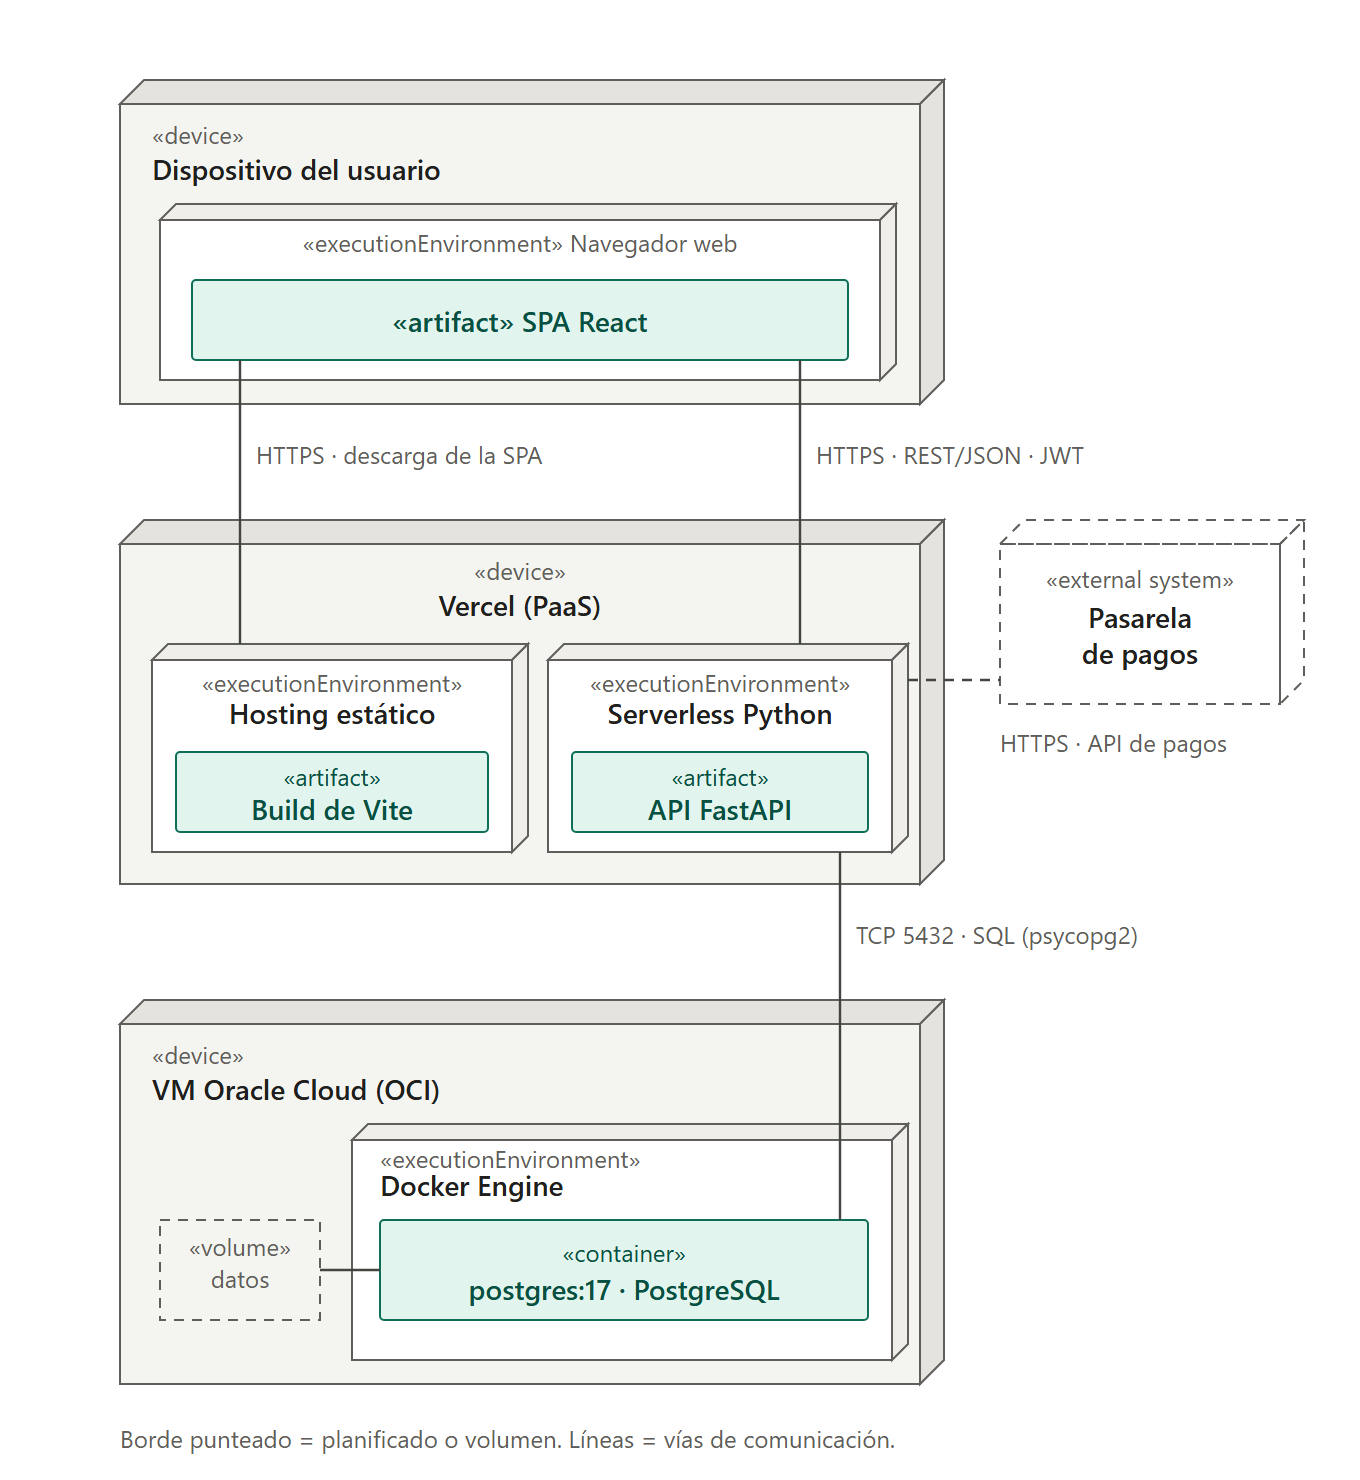
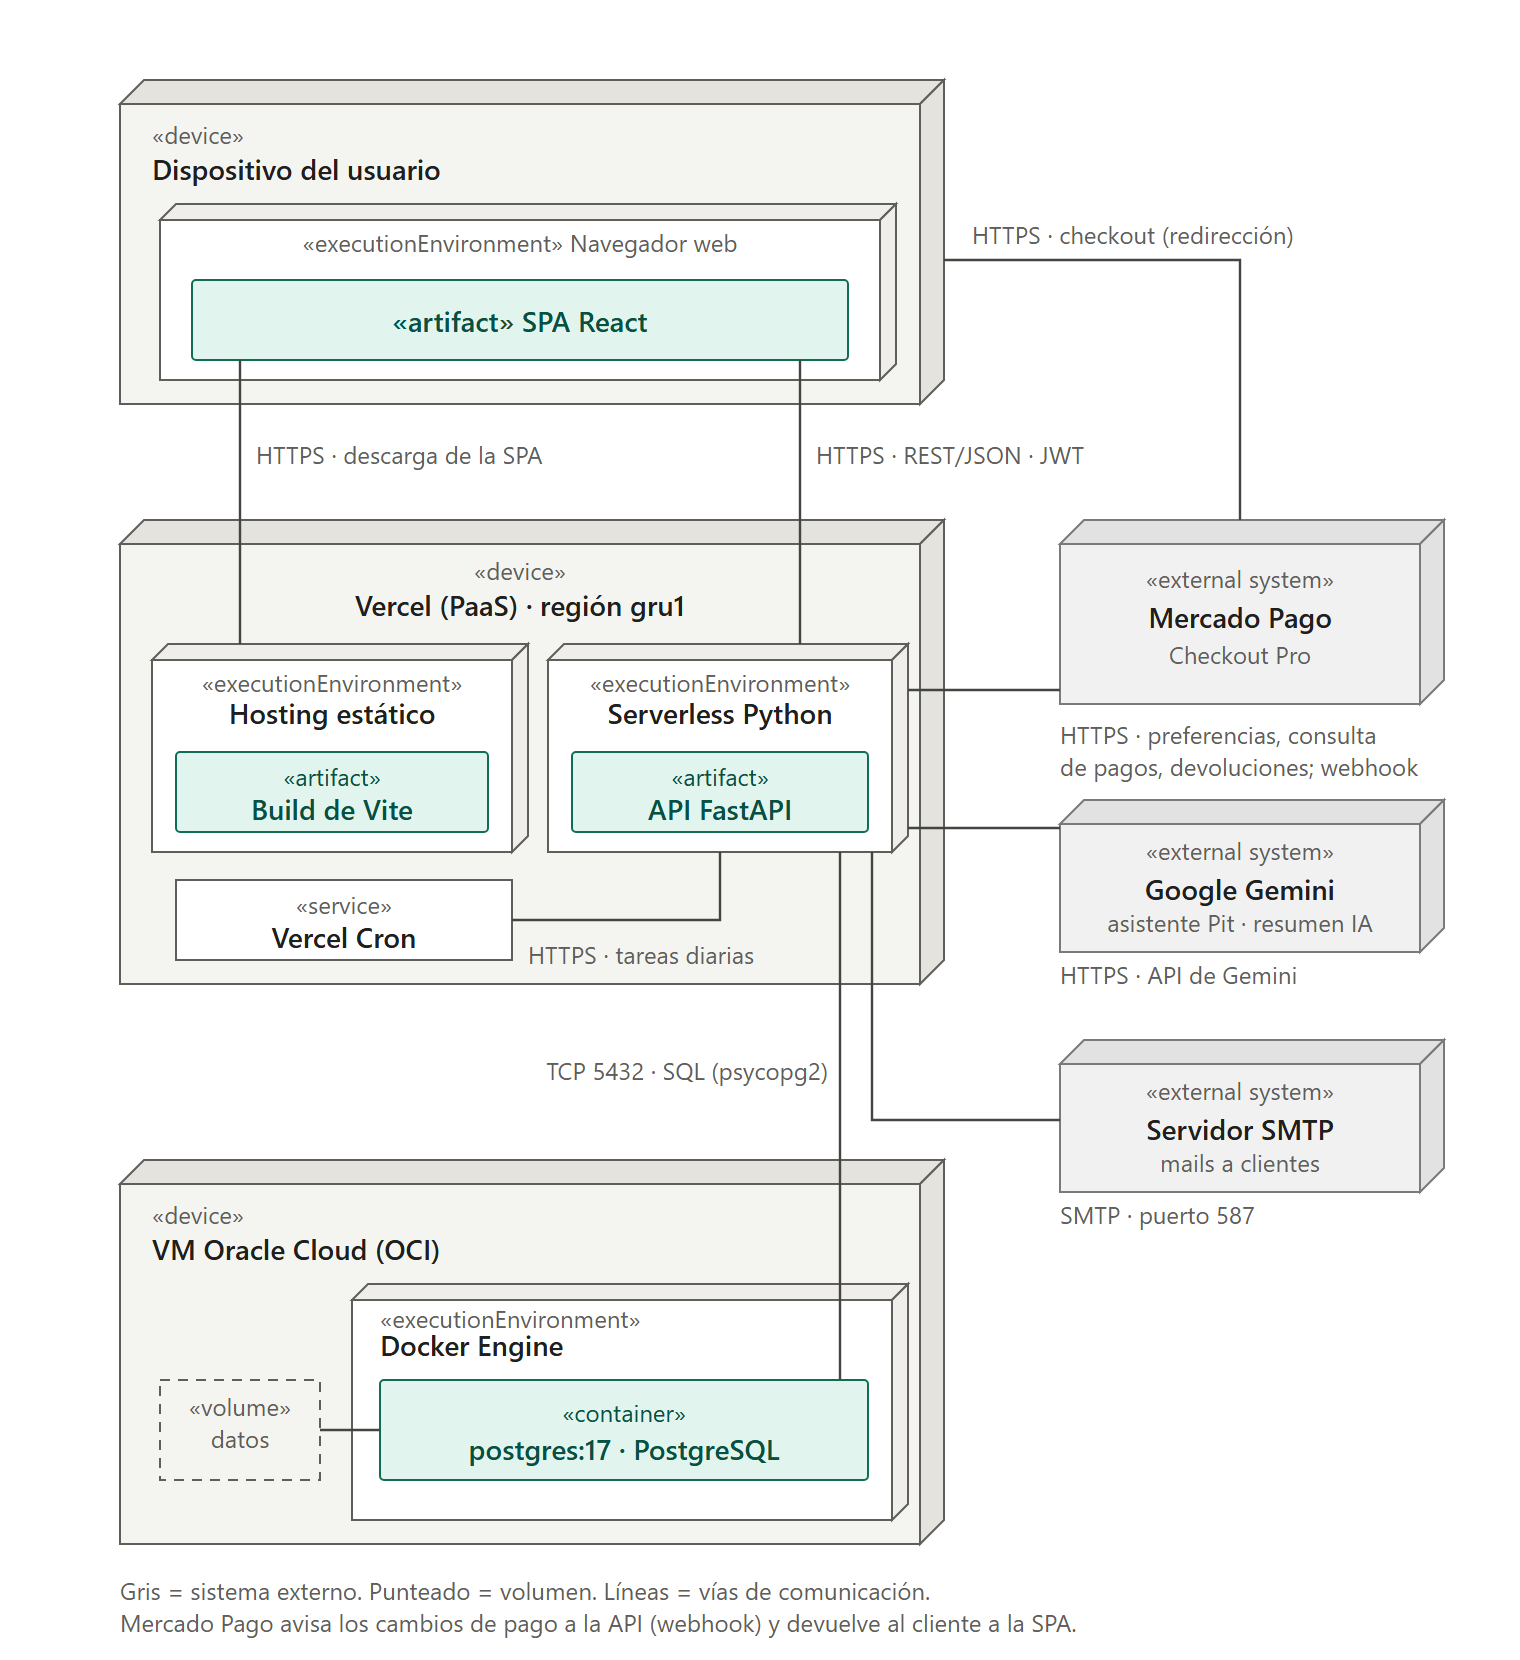
docs(diagramas): Mercado Pago, Gemini y SMTP en los diagramas
- Despliegue en producción: Mercado Pago (Checkout Pro) deja de estar
  planificado; se agregan Gemini, el servidor SMTP y Vercel Cron.
- Despliegue en desarrollo: contenedor mailpit y nota sobre Mercado Pago
  en local (credenciales de prueba, sin webhook).
- Componentes: Panel Vendedor y Pagos implementados, integraciones
  externas y lista de endpoints al día.
- Secuencia de finalizar compra: el flujo real con pago pendiente, link
  de Checkout Pro, verificación al volver y webhook.

Changed region(s): [[0.0618, 0.0311, 0.9574, 0.9946]]

diff --git a/diagrams/secuencia/04-finalizar-compra.md b/diagrams/secuencia/04-finalizar-compra.md
@@ -1,16 +1,19 @@
 # Secuencia: finalizar compra
 
-> **Implementado:** `POST /api/v1/orders` con body opcional
-> `{ shipping_address_id, payment_method_id }` (lo que no se envía usa la dirección
-> o el método principal del cliente) y la transacción `place_order()` de
-> `backend/app/crud/order.py` (recuadro amarillo). El pedido nace en estado
-> `confirmed` y guarda una copia de la dirección y del método de pago, para que el
-> historial no cambie si el cliente los edita o borra.
+> **Implementado:** la compra tiene dos pasos. Primero `POST /api/v1/orders`
+> (body opcional `{ shipping_address_id, delivery_method }`) arma el pedido con la
+> transacción `place_order()` de `backend/app/crud/order.py` (recuadro amarillo):
+> descuenta el stock y vacía el carrito, y el pedido nace `confirmed` con su
+> **pago pendiente** (entidad `payment` aparte). Después el cliente paga en
+> **Mercado Pago (Checkout Pro)**: `POST /api/v1/pagos/{id}` da el link, y el pago
+> se confirma al volver a `/pago` (`POST /api/v1/pagos/{id}/verificar`) o por el
+> aviso de Mercado Pago (`POST /api/v1/pagos/webhook`), lo que llegue primero.
+> En los dos casos no se le cree al aviso: se consulta el pago a Mercado Pago.
 >
-> **Planificado (a confirmar con el equipo):** el cobro con la pasarela de pagos,
-> con el orden "primero se reserva el stock y se crea el pedido, después se cobra".
-> El estado del cobro iría en una entidad de pago aparte; el `status` del pedido es
-> solo logístico (confirmado / enviado / entregado / cancelado). Hoy no se cobra.
+> El stock queda reservado `MINUTOS_PARA_PAGAR` minutos (15 por defecto). Si el
+> pedido no se paga a tiempo, `cancel_expired_orders()` lo cancela y devuelve el
+> stock; si el pago se aprueba igual después, se le devuelve el dinero.
+> El `status` del pedido es solo logístico; el estado del cobro vive en `payment`.
 
 ```mermaid
 ---
@@ -22,116 +25,115 @@ sequenceDiagram
     actor C as Cliente
 
     box rgb(227,240,255) Frontend
-        participant P as Pantallas<br/>(Carrito)
+        participant P as Pantallas<br/>(Carrito · Resultado del pago)
         participant S as Estado y Sesión<br/>(CartContext)
         participant A as Cliente API
     end
 
     box rgb(247,251,255) Backend
-        participant R as API REST
+        participant R as API REST<br/>(/orders · /pagos)
         participant Seg as Seguridad
-        participant L as Lógica de negocio<br/>(Pedidos)
+        participant L as Lógica de negocio<br/>(Pedidos · Pagos)
     end
 
     participant DB as Base de Datos
+    participant MP as Mercado Pago
 
     Note over P: "Finalizar compra" está deshabilitado<br/>si el carrito está vacío
     C->>P: "Finalizar compra"
 
-    par Datos de envío y pago
-        P->>A: obtenerDirecciones()
+    par Datos de entrega
+        P->>A: getAddresses()
         A->>R: GET /api/v1/addresses
         R-->>A: direcciones
-        A-->>P: direcciones
     and
-        P->>A: obtenerMetodosPago()
-        A->>R: GET /api/v1/payment-methods
-        R-->>A: métodos de pago (con is_expired)
-        A-->>P: métodos de pago
+        P->>A: getPickupInfo()
+        A->>R: GET /api/v1/orders/pickup-info
+        R-->>A: dirección y horario del local
     end
+    P-->>C: Modal: envío a domicilio (dirección principal preseleccionada)<br/>o retiro en el local
 
-    P-->>C: Modal de confirmación con la dirección y la tarjeta<br/>principales preseleccionadas (las vencidas no se pueden elegir)
-    opt Sin direcciones o sin tarjetas vigentes
-        P-->>C: "Agregar una dirección" / "Agregar una tarjeta"<br/>(confirmar queda deshabilitado)
-    end
-
-    C->>P: Elige dirección y tarjeta, y confirma
-    P->>A: confirmarCompra({ direccionId, metodoPagoId })
-    A->>R: POST /api/v1/orders (Bearer JWT)<br/>{ shipping_address_id, payment_method_id }
+    C->>P: Elige y confirma
+    P->>A: confirmPurchase({ idAddress, deliveryMethod })
+    A->>R: POST /api/v1/orders (Bearer JWT)<br/>{ shipping_address_id, delivery_method }
     R->>Seg: get_current_client(token)
-    Seg->>DB: Buscar cliente por id (sub)
 
-    alt Token ausente, inválido o vencido
-        Seg-->>R: 401
-        R-->>A: 401 "Token inválido o expirado."
-    else El usuario no es cliente
-        Seg-->>R: 403
-        R-->>A: 403 "Esta acción requiere una cuenta de cliente."
+    alt Token inválido / no es cliente / correo sin verificar
+        R-->>A: 401 / 403
+    else Mercado Pago sin configurar (o retiro sin datos del local)
+        R-->>A: 503 "Por ahora no podemos cobrar…"
     else Cliente válido
-        Seg-->>R: cliente
-        R->>DB: ROLLBACK (cierra la transacción de lectura de la autenticación)
-        R->>L: place_order(client_id, dirección, método de pago)
+        R->>L: cancel_expired_orders() (devuelve el stock de los vencidos)
+        R->>L: place_order(client_id, dirección, delivery_method)
 
         rect rgb(255,248,220)
             Note over L,DB: place_order() — una sola transacción
             L->>DB: BEGIN · SELECT cart + items FOR UPDATE
-
-            alt Carrito inexistente o vacío
+            alt Carrito vacío / sin dirección
                 L->>DB: ROLLBACK
-                L-->>R: ValueError
-                R-->>A: 400 "Tu carrito está vacío."
-            else Carrito con items
-                L->>DB: SELECT dirección y método de pago del cliente<br/>(los elegidos o, sin elegir, los principales)
-
-                alt Sin dirección o sin método de pago guardado
-                    L->>DB: ROLLBACK
-                    L-->>R: ValueError
-                    R-->>A: 400 "Agregá una dirección de envío /<br/>un método de pago para confirmar la compra."
-                else Dirección o método inexistente o de otro cliente
-                    L->>DB: ROLLBACK
-                    L-->>R: ValueError
-                    R-->>A: 422 "La dirección de envío / el método de pago<br/>elegido no es válido."
-                else Tarjeta vencida
-                    L->>DB: ROLLBACK
-                    L-->>R: ValueError
-                    R-->>A: 422 "La tarjeta elegida está vencida.<br/>Elegí otra o agregá una nueva."
-                else Dirección y tarjeta válidas
-                    L->>DB: SELECT part WHERE id IN (…) FOR UPDATE
-                    DB-->>L: repuestos (bloqueados)
-
-                    alt Algún repuesto ya no existe
-                        L->>DB: ROLLBACK
-                        L-->>R: ValueError
-                        R-->>A: 409 "Algún repuesto del carrito ya no está disponible."
-                    else Stock insuficiente
-                        L->>DB: ROLLBACK
-                        L-->>R: ValueError (repuesto, pedido, disponible)
-                        R->>DB: SELECT part (nombre del repuesto)
-                        R-->>A: 409 "No hay stock suficiente de 'X': pediste N, hay M."
-                    else Stock suficiente
-                        L->>DB: INSERT order (status = confirmed,<br/>copia de dirección y método de pago)<br/>INSERT order_item (frozen_price = precio actual)
-                        L->>DB: UPDATE part.stock -= cantidad · DELETE cart_item
-                        L->>DB: COMMIT
-                        L-->>R: pedido
-                        R->>R: build_order_detail_out (total con frozen_price)
-                        R-->>A: 201 { order_id, created_at, status,<br/>shipping_address, payment_method, total, items }
-                    end
-                end
+                R-->>A: 400 "Tu carrito está vacío." / "Agregá una dirección…"
+            else Dirección de otro cliente o inexistente
+                L->>DB: ROLLBACK
+                R-->>A: 422 "La dirección de envío elegida no es válida."
+            else Repuesto inexistente o stock insuficiente
+                L->>DB: SELECT part … FOR UPDATE
+                L->>DB: ROLLBACK
+                R-->>A: 409 "No hay stock suficiente de 'X': pediste N, hay M."
+            else Todo bien
+                L->>DB: SELECT part … FOR UPDATE
+                L->>DB: INSERT order (confirmed, copia de la dirección)<br/>INSERT payment (pending) · INSERT order_item (frozen_price)
+                L->>DB: UPDATE part.stock -= cantidad · DELETE cart_item
+                L->>DB: COMMIT
+                R-->>A: 201 { order_id, status, items, total, … }
             end
         end
     end
 
-    Note over P,A: Manejo de la respuesta en el frontend
     alt 201
-        A->>A: mapearPedido
         A-->>P: pedido
-        P-->>C: "¡Compra confirmada!" con el número de pedido
-        P->>S: cargarCarrito()
-        S->>A: GET /api/v1/cart
-        A-->>S: carrito vacío
-        S-->>C: Actualiza el carrito y el contador del Navbar
-    else 400 / 401 / 403 / 409 / 422 / error de red
+        P->>S: loadCart() (el carrito ya quedó vacío)
+        P->>A: createPaymentLink(orderId)
+        A->>R: POST /api/v1/pagos/{orderId}
+        R->>L: cancel_expired_orders() · buscar el pago del cliente
+        alt Pago pendiente con link vivo
+            R->>MP: GET preferencia existente
+        else Primer intento o reintento tras un rechazo
+            R->>MP: POST preferencia (items, external_reference = pedido,<br/>back_urls a /pago, vence con el plazo, sin efectivo)
+            R->>DB: guardar mp_preference_id
+        end
+        MP-->>R: link de checkout
+        R-->>A: { url }
+        A-->>P: url
+        P-->>C: Redirige a Mercado Pago
+        Note over A,P: Si el link falla (409 ya pagado / cancelado, 503),<br/>el pedido queda creado y se puede reintentar
+    else 400 / 401 / 403 / 409 / 422 / 503
         A-->>P: error (mensaje del backend)
         P-->>C: Muestra el mensaje en el modal
     end
+
+    C->>MP: Paga con tarjeta en el checkout
+
+    par El cliente vuelve al sitio
+        MP-->>C: Redirige a /pago?pedido={id}&payment_id=…
+        C->>P: Resultado del pago
+        P->>A: verifyPayment(orderId, paymentId)
+        A->>R: POST /api/v1/pagos/{orderId}/verificar (Bearer JWT)
+        R->>MP: GET pago {payment_id}
+        MP-->>R: estado, monto, external_reference
+        R->>L: apply_mp_status() (si el pago es de este pedido)
+        L->>DB: UPDATE payment (approved / rejected / pending)
+        R-->>A: { estado }
+        A-->>P: estado
+        P-->>C: "Pago aprobado" / "en proceso" / "rechazado" (reintentar)
+    and Aviso de Mercado Pago (respaldo, solo en producción)
+        MP->>R: POST /api/v1/pagos/webhook (firma x-signature)
+        R->>R: valid_signature() (401 si no la firmó Mercado Pago)
+        R->>MP: GET pago {id}
+        MP-->>R: estado, monto, external_reference
+        R->>L: apply_mp_status()
+        L->>DB: UPDATE payment
+        R-->>MP: 200
+    end
+
+    Note over R,MP: Al aprobarse (una sola vez): mail de la compra. Si el pedido ya<br/>se había cancelado por vencido, o el monto no coincide, se devuelve el dinero.
 ```

diff --git a/diagrams/componentes.md b/diagrams/componentes.md
@@ -14,15 +14,16 @@ flowchart TB
 
     subgraph Vercel["Vercel"]
         subgraph FE["Frontend — React"]
-            Pantallas["«component»<br/><b>Pantallas Cliente</b><br/>catálogo · búsqueda · carrito<br/>compra · historial · cuenta"]:::component
-            PanelEmp["«component»<br/><b>Panel Empleado</b><br/>dashboard · gestión"]:::planned
-            Estado["«component»<br/><b>Estado y Sesión</b><br/>CartContext · VehicleContext<br/>auth.js · useRenovacionSesion"]:::component
+            Pantallas["«component»<br/><b>Pantallas Cliente</b><br/>catálogo · búsqueda · carrito · compra<br/>resultado del pago · pedidos · cuenta · Pit"]:::component
+            PanelEmp["«component»<br/><b>Panel Vendedor</b><br/>dashboard · pedidos · repuestos y stock<br/>alertas de reposición · equipo (admin) · IA"]:::component
+            Estado["«component»<br/><b>Estado y Sesión</b><br/>CartContext · VehicleContext · OrdersContext<br/>PitContext · auth.js · useSessionRenewal"]:::component
             ApiCli["«component»<br/><b>Cliente API</b><br/>api.js"]:::component
         end
 
         subgraph BE["Backend — FastAPI"]
-            API["«component»<br/><b>API REST /api/v1</b><br/>auth: login · registro · refresh · perfil<br/>catálogo y búsqueda libre · carrito<br/>pedidos: crear · historial · detalle<br/>favoritos · direcciones · métodos de pago<br/>recomendaciones"]:::component
-            Nuevos["«component»<br/><b>Cobro · Gestión</b>"]:::planned
+            API["«component»<br/><b>API REST /api/v1</b><br/>auth: login · registro · verificación · contraseña<br/>catálogo y búsqueda · carrito · favoritos<br/>direcciones · avisos de stock · recomendaciones<br/>pedidos: crear · historial · seguimiento · vendedor<br/>analytics · empleados · asistente · tareas diarias"]:::component
+            Pagos["«component»<br/><b>Pagos /pagos</b><br/>link de pago · verificar · webhook<br/>devoluciones"]:::component
+            Integ["«component»<br/><b>Integraciones</b><br/>core/mercadopago.py · ia/client.py<br/>core/email.py · notifications.py"]:::component
             Seg["«component»<br/><b>Seguridad</b><br/>JWT · bcrypt"]:::component
             Logica["«component»<br/><b>Lógica de negocio</b><br/>CRUD"]:::component
             ORM["«component»<br/><b>Acceso a datos</b><br/>SQLAlchemy"]:::component
@@ -33,30 +34,42 @@ flowchart TB
         DB[("Base de Datos<br/>(PostgreSQL)")]:::database
     end
 
-    Pasarela["«component»<br/><b>Pasarela de Pagos</b>"]:::external
+    subgraph Externos["Sistemas externos"]
+        direction TB
+        Gemini["«external system»<br/><b>Google Gemini</b>"]:::external
+        SMTP["«external system»<br/><b>Servidor SMTP</b>"]:::external
+        MP["«external system»<br/><b>Mercado Pago</b><br/>Checkout Pro"]:::external
+    end
+    Cron["«external system»<br/><b>Vercel Cron</b>"]:::external
 
     Cliente --> Pantallas
-    Empleado -.-> PanelEmp
+    Empleado --> PanelEmp
+    Cliente -->|"paga en el checkout"| MP
 
     Pantallas --> Estado
     Pantallas --> ApiCli
     Estado --> ApiCli
-    PanelEmp -.-> ApiCli
+    PanelEmp --> ApiCli
 
     ApiCli ==>|"REST / JSON · HTTPS<br/>Bearer JWT"| API
-    ApiCli -.-> Nuevos
+    ApiCli --> Pagos
 
     API --> Seg
     API --> Logica
-    Nuevos -.-> Logica
+    Pagos --> Logica
+    Pagos --> Integ
+    API --> Integ
+    Cron -->|"GET /tareas/diarias"| API
     Logica --> ORM
 
     ORM ==>|"SQL"| DB
-    Nuevos -.->|"API de pagos"| Pasarela
+    Integ ==>|"HTTPS · preferencias, pagos, devoluciones"| MP
+    MP -->|"webhook"| Pagos
+    Integ -->|"HTTPS"| Gemini
+    Integ -->|"SMTP"| SMTP
 
     classDef actor fill:#fff4e0,stroke:#d9822b,stroke-width:2px,color:#5a3200
     classDef component fill:#e3f0ff,stroke:#2f6fbf,stroke-width:2px,color:#0b2a52
-    classDef planned fill:#ffffff,stroke:#2f6fbf,stroke-width:2px,stroke-dasharray:6 4,color:#0b2a52
     classDef external fill:#f1f1f1,stroke:#7a7a7a,stroke-width:2px,stroke-dasharray:5 3,color:#333
     classDef database fill:#e6f6ea,stroke:#2e8b57,stroke-width:2px,color:#0f3d24
 
@@ -65,8 +78,8 @@ flowchart TB
     style Vercel fill:#fafafa,stroke:#000,stroke-width:1px
     style FE fill:#f7fbff,stroke:#2f6fbf,stroke-width:1px
     style BE fill:#f7fbff,stroke:#2f6fbf,stroke-width:1px
+    style Externos fill:#ffffff,stroke:#7a7a7a,stroke-width:1px,stroke-dasharray:5 3
     style ServidorOracle fill:#fafafa,stroke:#c74634,stroke-width:1px
 ```
 
-**Leyenda:** borde sólido = implementado · borde punteado azul = planificado ·
-gris punteado = sistema externo.
+**Leyenda:** azul = componente del sistema · gris punteado = sistema externo.

diff --git a/diagrams/despliegue-produccion.md b/diagrams/despliegue-produccion.md
@@ -4,12 +4,23 @@ Dónde corre cada parte del sistema en producción y cómo se comunican.
 
 ![Diagrama de despliegue — Producción](despliegue-produccion.svg)
 
-- **Dispositivo del usuario:** el navegador ejecuta la SPA de React.
-- **Vercel:** sirve el build estático de Vite y ejecuta la API FastAPI como
-  función serverless de Python.
+- **Dispositivo del usuario:** el navegador ejecuta la SPA de React. Para pagar,
+  la SPA lo redirige al checkout de Mercado Pago, que al terminar lo devuelve a
+  `/pago?pedido=…`.
+- **Vercel** (región `gru1`): sirve el build estático de Vite y ejecuta la API
+  FastAPI como función serverless de Python (todo lo que empieza con `/api/` va
+  al backend, ver `vercel.json`). **Vercel Cron** llama a
+  `GET /api/v1/tareas/diarias` una vez por día (13:00 UTC), con `CRON_SECRET`.
 - **VM de Oracle Cloud (OCI):** PostgreSQL 17 en un contenedor Docker, con sus
   datos en un volumen.
-- **Pasarela de pagos:** sistema externo, planificado (borde punteado).
+- **Mercado Pago (Checkout Pro):** la API crea la preferencia (el link de pago),
+  consulta el estado de cada pago y hace las devoluciones. Mercado Pago avisa los
+  cambios de pago a `POST /api/v1/pagos/webhook`, firmado con
+  `MERCADOPAGO_WEBHOOK_SECRET`.
+- **Google Gemini:** el asistente de compra (Pit), el resumen con IA y las
+  preguntas al dashboard del vendedor.
+- **Servidor SMTP:** los mails a los clientes (verificación, compra, cambios de
+  estado, avisos de stock).
 
 **Pendiente de confirmar:** si la conexión Vercel → Postgres (TCP 5432) va cifrada
 con TLS y si hay algún proxy inverso o firewall delante de la VM.

diff --git a/diagrams/despliegue-desarrollo.md b/diagrams/despliegue-desarrollo.md
@@ -5,9 +5,16 @@ Cómo se levanta el sistema en la máquina de cada desarrollador con
 
 ![Diagrama de despliegue — Desarrollo](despliegue-desarrollo.svg)
 
-- **Perfil `local`** (por defecto, `COMPOSE_PROFILES=local`): frontend, backend y
-  una base PostgreSQL propia en un contenedor, con el volumen `postgres_data`.
+- **Perfil `local`** (por defecto, `COMPOSE_PROFILES=local`): frontend, backend,
+  una base PostgreSQL propia en un contenedor (con el volumen `postgres_data`) y
+  **Mailpit**, un servidor de mail falso: recibe los mails del backend y los
+  muestra en <http://localhost:8025> sin mandar nada real.
 - **Perfil `remoto`** (`docker compose --profile remoto up -d`): frontend y
   backend que se conectan a la base de la VM de Oracle Cloud.
 - El código fuente se monta en los contenedores (hot reload) y las credenciales
   salen del `.env` de la raíz (ver `.env.example`).
+- **Mercado Pago:** en local se usan las credenciales de prueba
+  (`MERCADOPAGO_ACCESS_TOKEN`). Sin token la tienda no acepta pedidos (503). Como
+  `BACKEND_URL` queda vacía, Mercado Pago no tiene adónde mandar el webhook: el
+  pago se confirma cuando el cliente vuelve a `/pago` (botón "Volver al sitio").
+- **Gemini** se usa solo si el `.env` tiene `GEMINI_API_KEY`.
